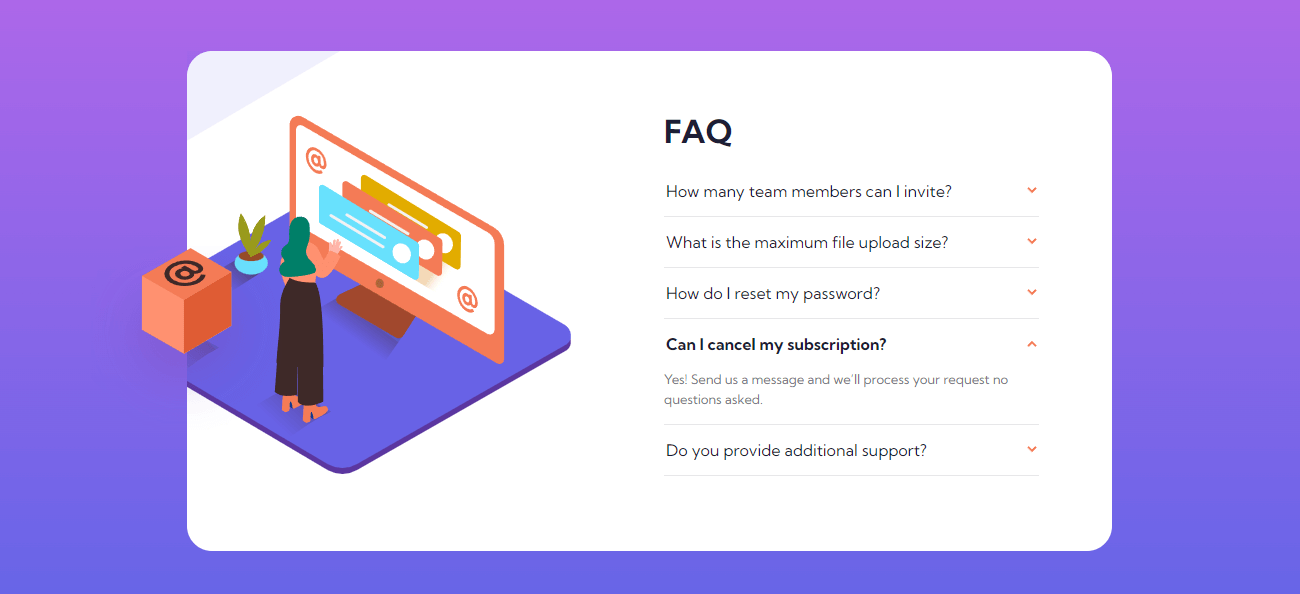
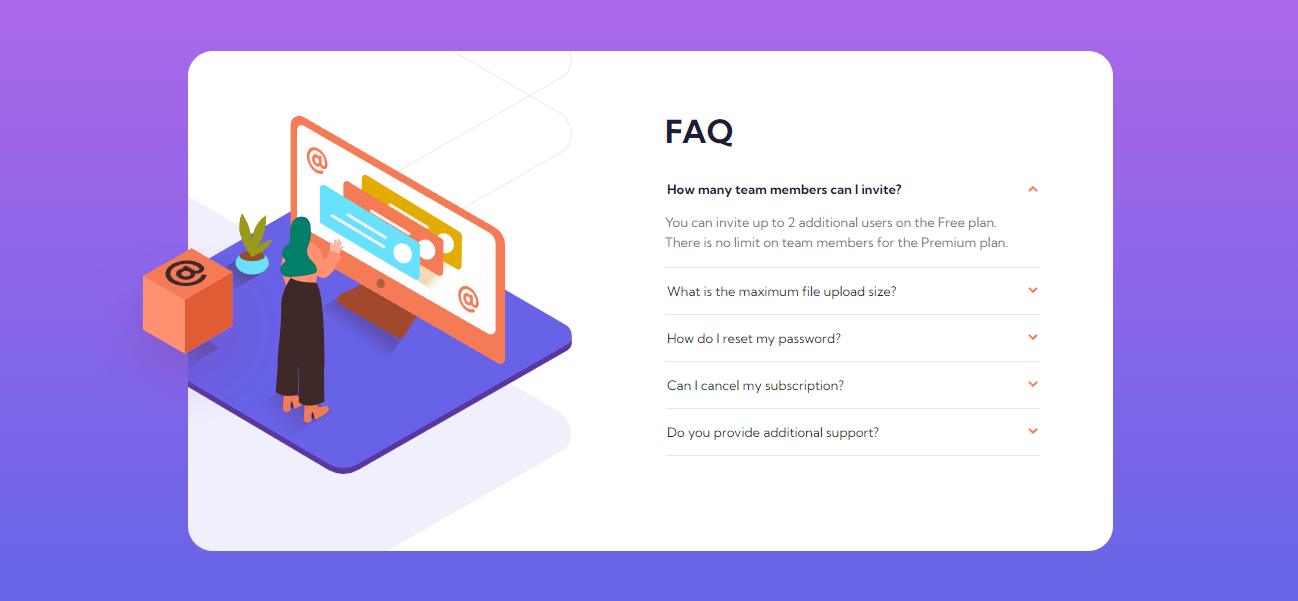
Polishing FAQ Card

diff --git a/assets/challenge-lists/faq-accordion/style.css b/assets/challenge-lists/faq-accordion/style.css
@@ -78,7 +78,6 @@
 }
 
 .illustration-background {
-    display: block;
     position: absolute;
     z-index: 0;
     width: 60em;
@@ -88,6 +87,10 @@
 }
 
 .illustration-background.desktop {
+    display: block;
+}
+
+.illustration-background.mobile {
     display: none;
 }
 
@@ -123,6 +126,7 @@
 }
 
 .item-container.active {
+    padding-bottom: 15px;
     height: auto;
 }
 
@@ -135,6 +139,8 @@
 }
 
 .item-question {
+    font-size: var(--regular-font-size);
+    font-weight: var(--regular-font-weight);
     cursor: pointer;
     display: flex;
     align-items: center;
@@ -161,7 +167,6 @@
 .item-container.active .item-answer {
     height: auto;
     transform: translate(0%, 0%) scaleY(1);
-    padding-bottom: 15px;
 }
 
 .item-container.active .item-answer p {
